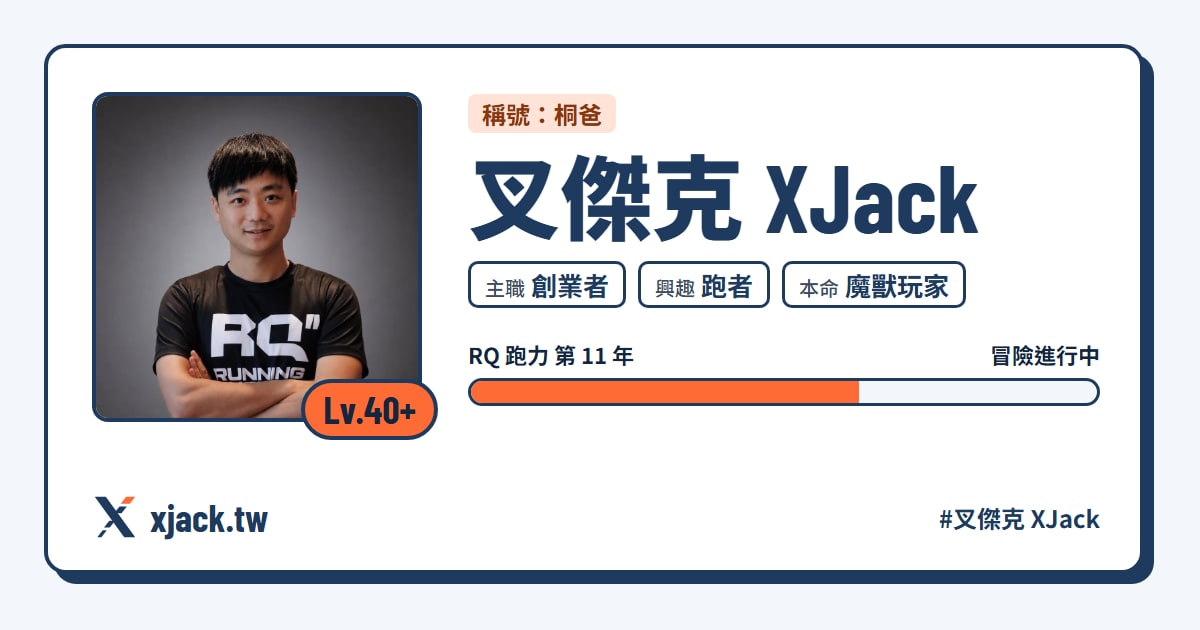
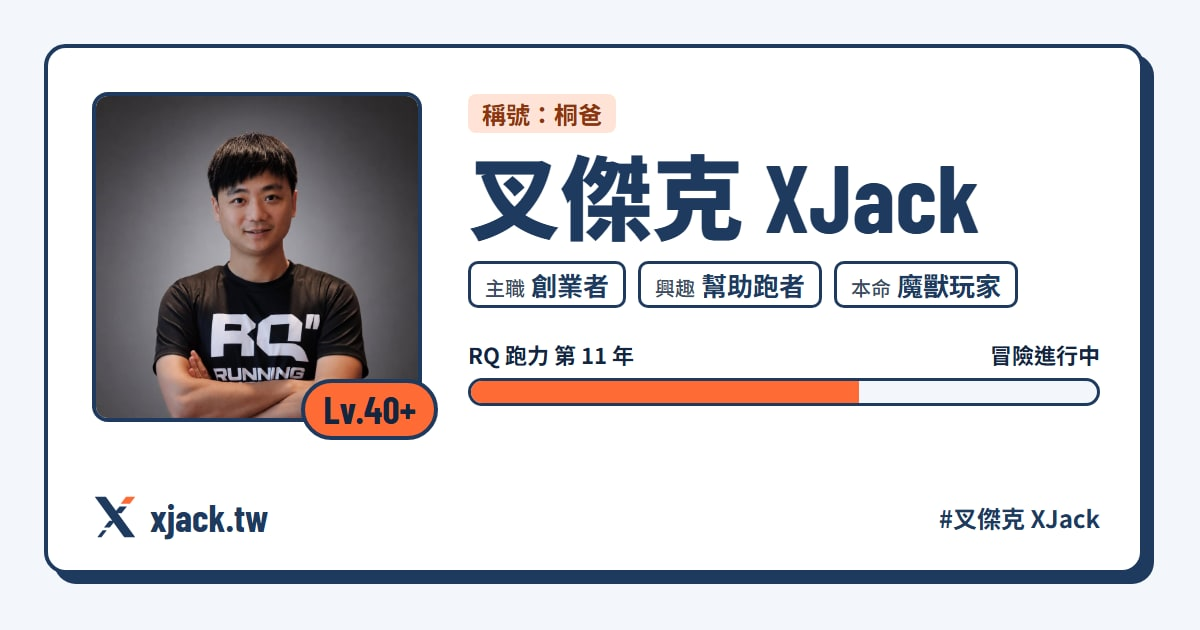
角色卡興趣改成「幫助跑者」
XJack 不自稱跑者。首頁角色卡和分享圖一起改。

Changed region(s): [[0.5858, 0.3921, 0.8633, 0.5127]]

diff --git a/scripts/og/og.html b/scripts/og/og.html
@@ -33,7 +33,7 @@
     <div class="info">
       <span class="title">稱號：桐爸</span>
       <h1>叉傑克 <span class="en">XJack</span></h1>
-      <div class="classes"><span><b>主職</b>創業者</span><span><b>興趣</b>跑者</span><span><b>本命</b>魔獸玩家</span></div>
+      <div class="classes"><span><b>主職</b>創業者</span><span><b>興趣</b>幫助跑者</span><span><b>本命</b>魔獸玩家</span></div>
       <div class="xp"><div class="xp-head"><span>RQ 跑力 第 11 年</span><span>冒險進行中</span></div><div class="bar"><i></i></div></div>
     </div>
     <div class="foot">

diff --git a/src/data/site.ts b/src/data/site.ts
@@ -19,7 +19,7 @@ export const person = {
   level: 'Lv.40+',
   classes: [
     { kind: '主職', name: '創業者' },
-    { kind: '興趣', name: '跑者' },
+    { kind: '興趣', name: '幫助跑者' },
     { kind: '本命', name: '魔獸玩家' },
   ],
   // 首頁自我介紹（口語版）
